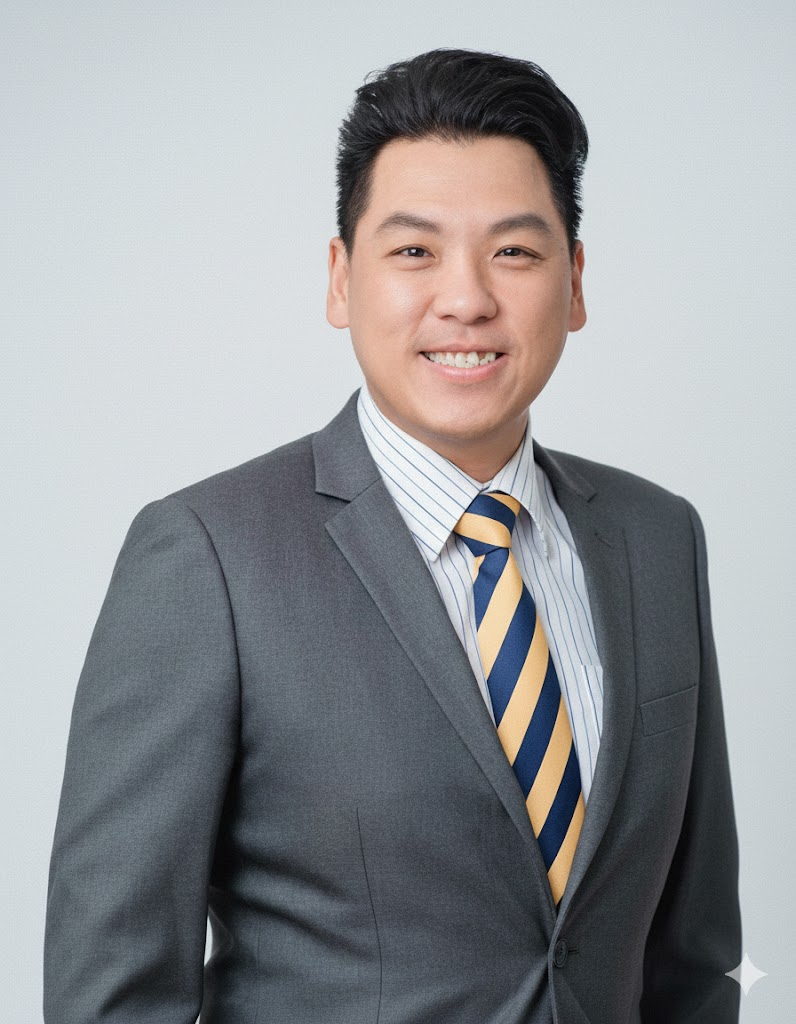
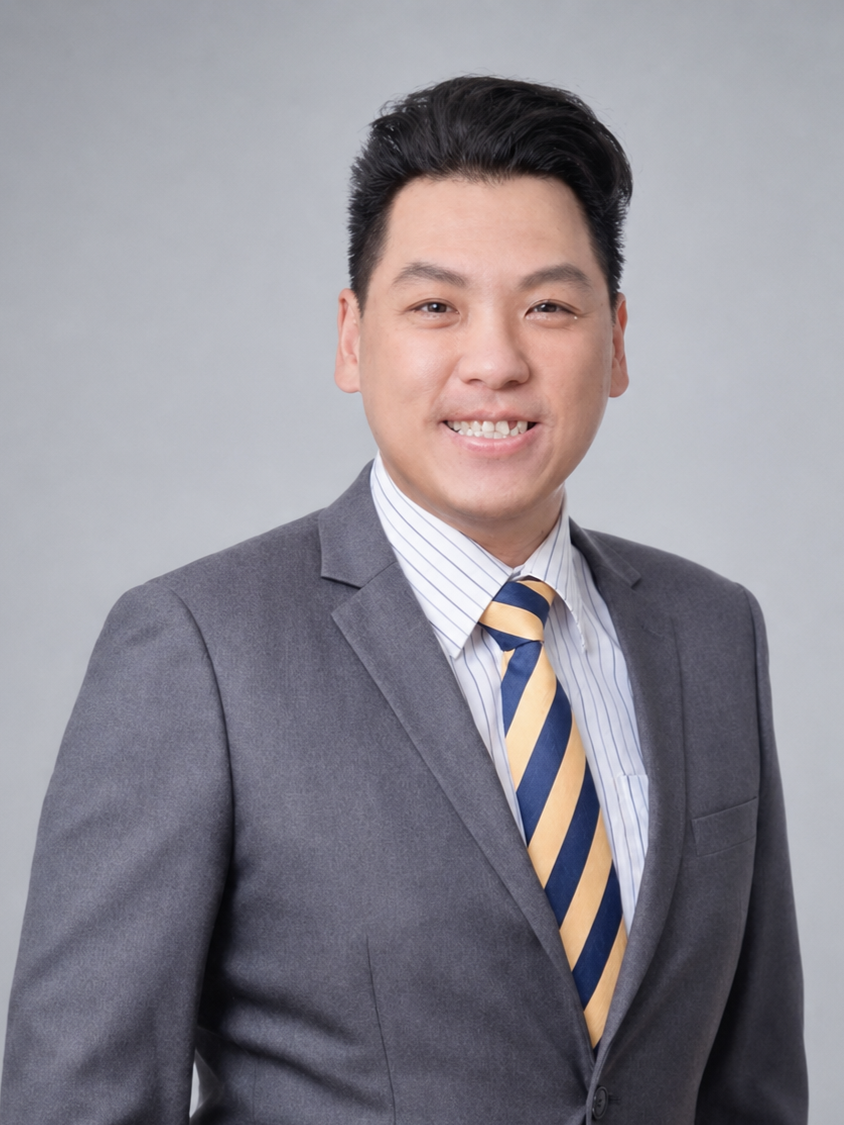
Update team page: add Joyce, refresh all profiles and photos
- Add Joyce Xu with photo, EN+ZH bios, expertise tags
- Update Kelvin EN/ZH bios per latest revisions
- Update Thomas ZH bio (remove HSBC brand reference)
- Update Ben ZH bio (港交所 naming)
- Replace all team photos (Thomas, Ben, Kelvin, Joyce)
- Change section title 'Leadership Team' -> 'Team' / '领导团队' -> '团队'
- Adjust grid gap for 4-card layout and tag nowrap

diff --git a/src/app/i18n.ts b/src/app/i18n.ts
@@ -144,7 +144,7 @@ const en = {
 
   team: {
     label: "The Minds Behind Every Insight",
-    h2: "Leadership Team",
+    h2: "Team",
     subtitle:
       "Former regulators, front-office veterans, and legal professionals who have sat on both sides of the compliance table.",
     viewBio: "VIEW FULL BIO",
@@ -154,7 +154,7 @@ const en = {
         role: "Director",
         yearsValue: "25+",
         yearsLabel: "YEARS OF INDUSTRY EXPERIENCE",
-        expertise: ["Brokerage", "Private Banking", "Commercial-to-Compliance"],
+        expertise: ["Brokerage Compliance", "SFC Licensing", "Commercial-to-Compliance"],
         languages: "English · Japanese · Cantonese · Putonghua",
         bio: [
           "Thomas has over 25 years of experience in both front-office and compliance roles. He began his career in sales and trading within private banking before moving to senior brokerage positions at OKASAN International, CITIC Securities, and HSBC.",
@@ -167,13 +167,39 @@ const en = {
         role: "Director",
         yearsValue: "12+",
         yearsLabel: "YEARS IN LEGAL & COMPLIANCE",
-        expertise: ["Asset Management", "AML/CFT", "Regulatory Enforcement"],
+        expertise: ["Asset Management Compliance", "AML/CFT", "Regulatory Engagement"],
         languages: "English · Putonghua",
         bio: [
           "Ben is a legal and compliance professional with over 12 years of experience across multiple jurisdictions, including Singapore, Hong Kong, China and Macao. His career has focused on designing and implementing compliance frameworks for asset managers, brokers, and innovative fintech platforms.",
           "As a former enforcement agent at HKEX, Ben conducted on-site inspections of brokerage firms, providing him with first-hand knowledge of how regulators assess compliance with trading and clearing rules.",
           "Most recently, Ben served as the Manager-in-Charge of Compliance for the Micro Connect Group. In this role, he built the alternative fund compliance framework and the AML/CFT architecture for the Micro Connect (Macao) Financial Assets Exchange from the ground up.",
           "Ben is a CFA charterholder, holds a Master of Laws (Chinese Law) from the University of Hong Kong, and is fluent in English and Putonghua.",
+        ],
+      },
+      {
+        name: "Kelvin Chu",
+        role: "Senior Advisor",
+        yearsValue: "30+",
+        yearsLabel: "YEARS AT HKEX",
+        expertise: ["Exchange Compliance", "Market Surveillance", "Regulatory Inspections"],
+        languages: "English · Cantonese · Putonghua",
+        bio: [
+          "Kelvin spent over 30 years with HKEX, where his career spanned multiple core functions, including Listing, Rule Enforcement and Market Surveillance. In his most recent leadership roles, he was responsible for leading HKEX's Rule Enforcement and Market Surveillance functions, playing an instrumental role in safeguarding the integrity of Hong Kong's securities market and strengthening regulatory compliance among exchange participants.",
+          "During his tenure at HKEX, Kelvin led a number of significant regulatory initiatives. He was responsible for developing the cross-border market surveillance and enforcement framework for the Shanghai-Hong Kong and Shenzhen-Hong Kong Stock Connect programmes, working closely with the Shanghai Stock Exchange and Shenzhen Stock Exchange to establish effective regulatory cooperation mechanisms. He also led HKEX's Annual Attestation and Inspection Programme, overseeing compliance reviews of exchange participants and driving enhancements in regulatory oversight through process optimisation and technology automation.",
+          "Kelvin is a member of the Hong Kong Institute of Certified Public Accountants, holds a Master of Finance from the University of Hong Kong, and is fluent in English, Cantonese and Putonghua.",
+        ],
+      },
+      {
+        name: "Joyce Xu",
+        role: "Compliance Consultant",
+        yearsValue: "5+",
+        yearsLabel: "YEARS OF LEGAL TRAINING",
+        expertise: ["Regulatory Research", "Capital Markets Compliance", "Legal Document Drafting"],
+        languages: "English · Cantonese · Putonghua",
+        bio: [
+          "Joyce is a compliance professional with a legal background and experience in Hong Kong capital markets, regulatory research and cross-border legal matters. She supports Brooklet Advisory in assisting clients with regulatory compliance, licensing applications and compliance framework development.",
+          "Prior to joining Brooklet Advisory, Joyce gained experience in Hong Kong capital markets transactions, supporting legal due diligence, regulatory submissions and compliance reviews in relation to listing and corporate matters. She also gained cross-border legal exposure through her work with law firms in Hong Kong and Mainland China, where she was involved in commercial transactions, regulatory research and legal documentation. Joyce further developed her stakeholder engagement and negotiation skills through her participation in the United Nations Immersion Programme in Geneva, focusing on consensus building and sustainable development goals.",
+          "Joyce holds a Master of Laws from the City University of Hong Kong and is fluent in English, Cantonese and Putonghua.",
         ],
       },
     ],
@@ -388,7 +414,7 @@ const zh: typeof en = {
 
   team: {
     label: "专业深耕，洞见有据",
-    h2: "领导团队",
+    h2: "团队",
     subtitle: "前监管官员、前台资深人士及法律专业人士，横跨合规监管的两端。",
     viewBio: "查看完整简历",
     members: [
@@ -397,26 +423,52 @@ const zh: typeof en = {
         role: "董事",
         yearsValue: "25+",
         yearsLabel: "年行业经验",
-        expertise: ["经纪业务", "私人银行", "商业转合规"],
+        expertise: ["券商合规", "牌照申请", "商业转合规"],
         languages: "英语 · 日语 · 粤语 · 普通话",
         bio: [
-          "Thomas 拥有超过 25 年的经验，其职业生涯覆盖前台业务与合规领域，能为客户提供独特的专业视角。他的职业生涯始于私人银行的销售与交易岗位，随后在 OKASAN International (冈三国际)、中信证券及汇丰银行 (HSBC) 等国际机构担任证券和期货经纪业务的高级职位。",
-          "丰富的前台市场经验使他对业务运营中的商业压力有着切身的理解。他后期转型专注于合规领域，并曾在一家知名咨询公司担任客户服务区域总监，负责管理超过 140 家机构客户，涵盖全球投资银行及专业资产管理公司。这一背景使他能够提供既严谨合规又富于商业智慧的解决方案。",
+          "Thomas 拥有超过 25 年的经验，其职业生涯覆盖前台业务及合规管理领域，能为客户提供独特的专业视角。他的职业生涯始于私人银行的销售与交易岗位，随后在 OKASAN International (冈三国际)、中信证券及汇丰银行等国际机构担任证券和期货经纪业务的高级职位。",
+          "丰富的前台市场经验，使他深刻理解金融机构在业务发展过程中所面对的商业挑战。其后，Thomas 转型专注于合规咨询，并曾于一家知名咨询公司担任客户服务区域总监，负责管理超过140家机构客户，涵盖全球投资银行及专业资产管理公司，能够为客户提供兼顾监管要求与商业可行性的解决方案。",
           "Thomas 持有日本创价大学经济学硕士学位，能流利使用英语、日语、粤语和普通话。",
         ],
       },
       {
-        name: "李浩",
+        name: "李浩（Ben）",
         role: "董事",
         yearsValue: "12+",
         yearsLabel: "年法律及合规经验",
-        expertise: ["资产管理", "反洗钱/反恐融资", "监管执法"],
+        expertise: ["资产管理合规", "反洗钱/反恐融资", "监管沟通"],
         languages: "英语 · 普通话",
         bio: [
-          "李浩是一位法律与合规专业人士，拥有超过 12 年的从业经验，其工作足迹遍布新加坡、香港、中国内地和澳门等多个司法管辖区。他的职业生涯专注于为资产管理公司、券商及创新金融科技平台设计并实施合规框架。",
-          "李浩曾任香港交易所 (HKEX) 执法人员，负责对券商进行现场检查，这使他对监管机构如何评估交易与清算规则的合规情况拥有第一手的经验。",
-          "在联合创立 <span style=\"font-family: 'Candara', sans-serif; font-language-override: normal\">Brooklet Advisory</span> 之前，李浩担任滴灌通集团的合规事务主管 (MIC)。在此期间，他从零开始为集团的另类基金业务搭建了合规框架，并为滴灌通（澳门）金融资产交易所搭建了反洗钱/反恐怖主义融资 (AML/CFT) 架构。",
-          "李浩是特许金融分析师 (CFA)，持有香港大学法学硕士 (中国法) 学位，能流利使用英语和普通话。",
+          "Ben 是一位法律与合规专业人士，拥有超过 12 年的从业经验，其工作足迹遍布新加坡、香港、中国内地和澳门等多个司法管辖区。他的职业生涯专注于为资产管理公司、券商及创新金融科技平台设计并实施合规框架。",
+          "Ben 曾任港交所 (HKEX) 执法人员，负责对券商进行现场检查，对监管机构如何评估交易及结算规则的合规情况拥有第一手实践经验。",
+          "在联合创立 Brooklet Advisory 之前，Ben 担任滴灌通集团的合规事务主管 (MIC)，负责从零搭建另类基金业务的合规框架，并建立滴灌通（澳门）金融资产交易所的反洗钱及反恐怖融资（AML/CFT）体系。",
+          "Ben 为特许金融分析师 (CFA)，持有香港大学法学硕士 (中国法) 学位，能流利使用英语和普通话。",
+        ],
+      },
+      {
+        name: "朱伟健（Kelvin）",
+        role: "资深顾问",
+        yearsValue: "30+",
+        yearsLabel: "年港交所经验",
+        expertise: ["交易所合规", "市场监察", "现场审查"],
+        languages: "英语 · 粤语 · 普通话",
+        bio: [
+          "Kelvin 曾于港交所（HKEX）任职超过30年，职业生涯横跨上市、市场监察及规则执行等多个核心业务领域。其后期分别负责领导港交所的规则执行及市场监察工作，在维护香港证券市场公平、有序及稳健运作方面发挥了重要作用，并持续推动交易所参与者提升合规管理水平。",
+          "任职港交所期间，Kelvin 主导多项重要监管项目，包括负责建立沪港通及深港通的跨境市场监察及执法合作框架，与上海证券交易所及深圳证券交易所建立监管合作机制；同时负责策划及推行港交所年度合规评核及现场视察计划（Annual Attestation and Inspection Programme），通过对交易所参与者开展合规评核、现场检查，以及持续优化监管流程和自动化系统，进一步提升交易所监管工作的效率及成效。",
+          "Kelvin 为香港会计师公会（HKICPA）会员，持有香港大学金融学硕士学位，并能流利使用英语、粤语及普通话。",
+        ],
+      },
+      {
+        name: "许瀞方（Joyce）",
+        role: "合规顾问",
+        yearsValue: "5+",
+        yearsLabel: "年法律专业培训",
+        expertise: ["监管研究", "资本市场合规", "法律文件撰写"],
+        languages: "英语 · 粤语 · 普通话",
+        bio: [
+          "Joyce 是一名具备法律背景的合规专业人士，在香港资本市场、监管研究及跨境法律事务方面拥有相关经验。她现于 Brooklet Advisory 协助客户开展监管合规、牌照申请及合规体系建设相关工作。",
+          "加入 Brooklet Advisory 前，Joyce 曾参与香港资本市场项目，协助开展法律尽职调查、监管文件准备及上市及企业事务相关的合规审阅工作。她亦曾于香港及中国内地律师事务所参与商业交易、监管研究及法律文件处理工作，积累跨境法律事务经验。此外，Joyce 曾参加联合国日内瓦沉浸式项目（United Nations Immersion Programme），参与围绕共识建立及可持续发展目标的国际谈判模拟，进一步提升其沟通及协调能力。",
+          "Joyce 持有香港城市大学法学硕士学位，能流利使用英语、粤语及普通话。",
         ],
       },
     ],

diff --git a/src/app/components/Team.tsx b/src/app/components/Team.tsx
@@ -1,11 +1,13 @@
 import { useState, useEffect } from "react";
 import ThomasImg from "../../imports/TU.jpg";
 import BenImg from "../../imports/BL.png";
+import KelvinImg from "../../imports/Kelvin__.png";
+import JoyceImg from "../../imports/JX.jpg";
 import { motion, useReducedMotion } from "motion/react";
 import { useLanguage } from "../LanguageContext";
 
-const photos = [ThomasImg, BenImg];
-const photoScales = [1.15, 1.1];
+const photos = [ThomasImg, BenImg, KelvinImg, JoyceImg];
+const photoScales = [1.15, 1.1, 1.05, 1.05];
 
 const DARK_BG = "#1E3428";
 
@@ -211,7 +213,7 @@ export function Team() {
         </div>
 
         {/* Team — 2-column */}
-        <div className="flex flex-wrap justify-center gap-[7rem]">
+        <div className="flex flex-wrap justify-center gap-[2.5rem]">
           {team.map((member) => (
             <div
               key={member.name}
@@ -305,6 +307,7 @@ export function Team() {
                         color: "rgba(125,191,164,0.7)",
                         fontSize: "12px",
                         letterSpacing: "0.08em",
+                        whiteSpace: "nowrap",
                       }}
                     >
                       {tag}
